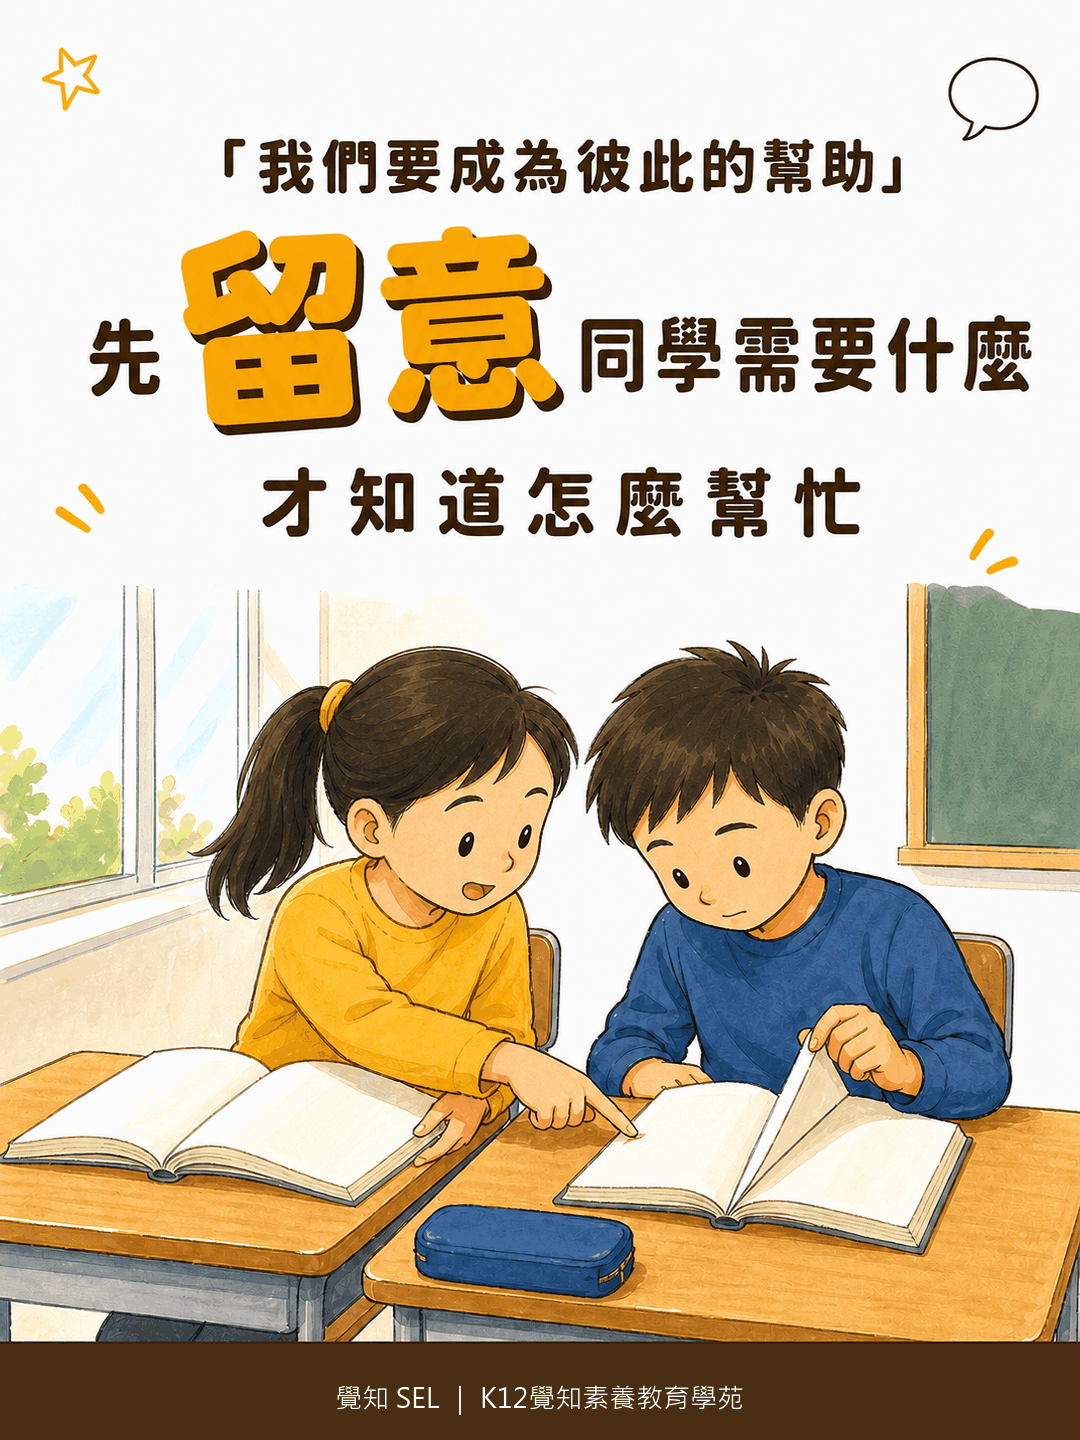
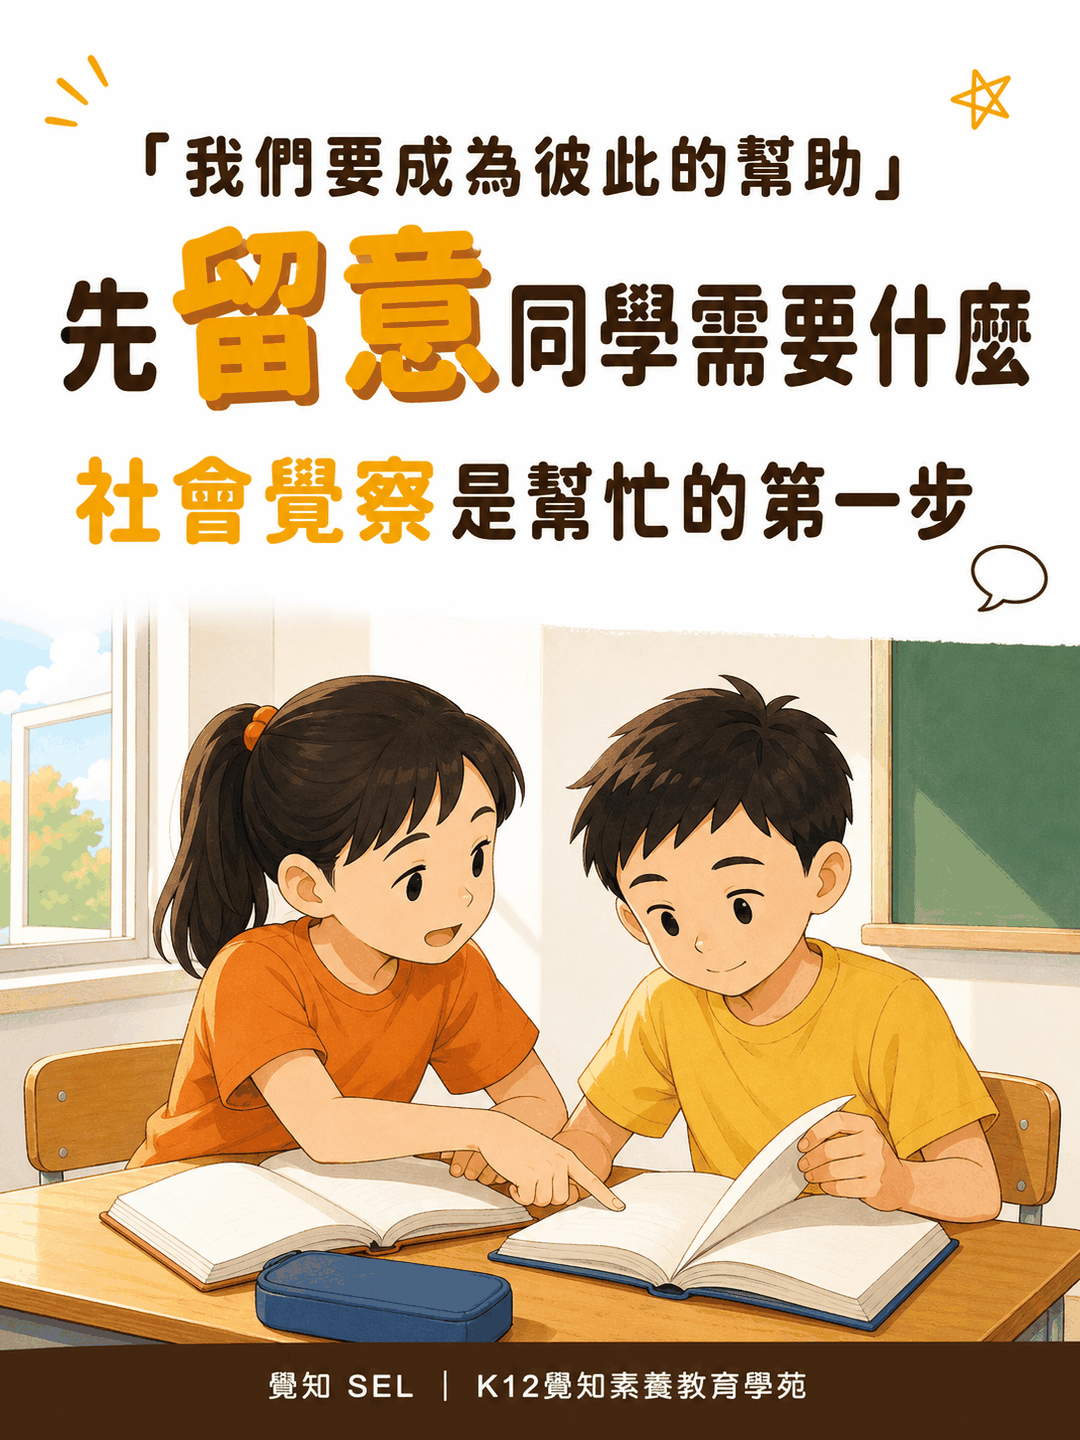
auto: dailynews update 2026-09-03 03:46 TW

diff --git a/2026-09/parenting_essence_2026-09-03.html b/2026-09/parenting_essence_2026-09-03.html
@@ -2814,7 +2814,9 @@ body .body section {
       <p>大人講到幫忙，想到的多半是伸手那一下：把東西遞過去、扶一把、借他<span style="white-space:nowrap">一支筆。</span></p>
       <p>教室裡的順序不太一樣。<strong>伸手之前還有一步：先留意同學需要什麼，才知道怎麼幫忙。</strong>小晴第一次答「沒有人需要幫忙」，不是不想幫，是她那時候眼睛還在自己的<span style="white-space:nowrap">課本上。</span></p>
       <p>這一步孩子不是不會，是平常很少有人請他做。上課看老師、下課顧自己的東西，坐在旁邊的同學在做什麼，很少真的<span style="white-space:nowrap">看進去。</span></p>
-      <p>調查裡近五成五的家長把同理心排在第一，很合理。同理心聽起來很大，在三年級的教室裡，它就是那一下轉頭：先看看同學在做什麼，才發現他找不到第幾頁。這一步在 SEL（社會情緒學習）裡叫社會覺察，家長會講的說法就是同理心，兩個名字講的是<span style="white-space:nowrap">同一件事。</span></p>
+      <p>調查裡近五成五的家長把同理心排在第一，很合理。同理心聽起來很大，在三年級的教室裡，它就是那一下轉頭：先看看同學在做什麼，才發現他找不到<span style="white-space:nowrap">第幾頁。</span></p>
+      <p>這一下轉頭，在 SEL（社會情緒學習）裡有正式的名字，叫<strong>社會覺察</strong>：讀得懂身邊的人現在的狀態與需要。<strong>社會覺察是幫忙的第一步。</strong>接在後面那一下——把課本推過去、指一下頁碼——叫<strong>人際關係技巧</strong>：把讀到的東西，變成對方接得住的<span style="white-space:nowrap">一個動作。</span></p>
+      <p>兩個詞聽起來很專業，做起來就是這麼小的兩下：轉頭看一眼，再把課本<span style="white-space:nowrap">推過去。</span></p>
     </section>
 
     <section>
@@ -2822,7 +2824,7 @@ body .body section {
       <p>那堂課以後，老師每週都問同一句：今天班上有誰需要幫忙？後面多了一句：你怎麼<span style="white-space:nowrap">知道的？</span></p>
       <p>第二週，小晴說：有人今天沒帶水壺，我看到他一直看別人喝水。第三週：有人被叫到名字沒聽到，我拍了<span style="white-space:nowrap">他一下。</span></p>
       <p>後面那一句比前面那一句重要。答得出「怎麼知道的」，代表孩子真的看了；答不上來的那一次，就是他還沒看，這時候不必急著要他<span style="white-space:nowrap">去幫誰。</span></p>
-      <p>我們在開智班看到的變化，不是小晴變得很會幫忙，是她開始在教室裡看別人。<strong>孩子先看看同學在做什麼，也比較容易發現哪裡需要幫忙。</strong>家長在調查裡最擔心的「被團體接納」，在教室裡常常就是從這裡<span style="white-space:nowrap">開始的。</span></p>
+      <p>我們在開智班看到的變化，不是小晴變得很會幫忙，是她開始在教室裡看別人。<strong>孩子先看看同學在做什麼，也比較容易發現哪裡需要幫忙。</strong>家長在調查裡最擔心的「被團體接納」，靠的正是<strong>社會覺察</strong>與<strong>人際關係技巧</strong>這兩樣，在教室裡一次一次<span style="white-space:nowrap">累積起來。</span></p>
     </section>
 
     <section>
@@ -2950,8 +2952,8 @@ body .body section {
 }
 </style>
 <nav class="zw-social" aria-label="覺知學苑連結">
-  <a class="zw-web" href="https://z-way-edu.com/" target="_blank" rel="noopener" data-label="覺知學苑官網">
-    <img src="../k12-logo.png" alt="K12覺知素養教育學苑官網" loading="lazy">
+  <a class="zw-web" href="https://z-way-edu.com/" target="_blank" rel="noopener" data-label="台灣展威官網">
+    <img src="../zw-logo.png" alt="台灣展威官網" loading="lazy">
   </a>
   <a class="zw-fb" href="https://www.facebook.com/K12KHART/" target="_blank" rel="noopener" data-label="Facebook 粉專">
     <svg viewBox="0 0 24 24" xmlns="http://www.w3.org/2000/svg"><path d="M22 12.06C22 6.5 17.52 2 12 2S2 6.5 2 12.06c0 5.02 3.66 9.18 8.44 9.94v-7.03H7.9v-2.9h2.54V9.85c0-2.52 1.5-3.91 3.78-3.91 1.1 0 2.24.2 2.24.2v2.46H15.2c-1.24 0-1.63.78-1.63 1.57v1.89h2.78l-.44 2.9h-2.34V22c4.78-.76 8.43-4.92 8.43-9.94z"/></svg>
@@ -3009,11 +3011,11 @@ body .body section {
 })();
 
 </script><style>
-/* === HERO_OVERRIDE_V3 2026-09-03 === (池選 photo-1653566031304-2bae3d104a11 | tint default | title left) */
+/* === HERO_OVERRIDE_V3 2026-09-03 === (AI hero（本地） | tint default | title left) */
 body header.head {
   background-image:
     linear-gradient(180deg, rgba(15,8,4,0.58) 0%, rgba(15,8,4,0.30) 38%, rgba(15,8,4,0.50) 100%),
-    url('https://images.unsplash.com/photo-1653566031304-2bae3d104a11?w=1920&auto=format&fit=crop&q=80') !important;
+    url('parenting_essence_2026-09-03_hero.jpg') !important;
   background-size: cover !important;
   background-position: center 38% !important;
   background-repeat: no-repeat !important;

diff --git a/index.html b/index.html
@@ -214,7 +214,7 @@ footer.v20 .fslogan{color:#b3a084}
   </div>
 
   <div class="grid">
-<a class="card is-latest theme-orange" href="2026-09/parenting_essence_2026-09-03.html" data-axis="thu" data-age="cross" data-hero="https://images.unsplash.com/photo-1653566031304-2bae3d104a11?w=1920&auto=format&fit=crop&q=80">
+<a class="card is-latest theme-orange" href="2026-09/parenting_essence_2026-09-03.html" data-axis="thu" data-age="cross" data-hero="2026-09/parenting_essence_2026-09-03_hero.jpg">
     <div class="card-tags"><span class="age">覺知．開智班（6-10）</span><span class="axis">週四 ｜ 3 秒鐘覺知對話</span></div>
     <h3 class="card-title">班語寫著「我們要成為彼此的幫助」，孩子要先留意同學現在需要什麼</h3>
     <p class="card-hook">開學第二週，覺知．開智班的老師把這學期的班語寫在黑板上：我們要成為彼此的幫助。同一週，國語日報報導了 DFC 臺灣（臺灣童心創意行動協會）發表的「AI 時代家長焦慮調查」：近七成三的家長擔心孩子「在人際互動中受傷，或難以在團體中被接納與包容」，僅五成家長擔心學習進度落後；近五成五家長認為，孩子在未來最該具備的能力是「同理心」。家長最擔心的是孩子在班上跟同學處得好不好，最想要的是同理心，這兩件事，班語那一句都寫到了。只是十個字念起來很順，孩子要真的做到，得從一件更小的事開始：先留意同學現在需要什麼。</p>
@@ -1365,15 +1365,20 @@ window.v20imgFb=function(img){
       clearTimeout(idleT);
       idleT=setTimeout(function(){bean.classList.remove('walk');bean.classList.add('hi');},1200);
     },{passive:true});
-    (function step(){
+    var lastT=performance.now(),wasMoving=false;
+    (function step(now){
+      // KWJ 2026-09-03「貼圖跟隨滑鼠的速度要快，現在很頓」：
+      // 追隨係數 .085 -> .30，並改成 frame-rate independent（120Hz 螢幕不會變兩倍快）
+      var dt=Math.min((now-lastT)/16.667,3);lastT=now;
+      var k=1-Math.pow(0.70,dt);
       var dx=tx-bx,dy=ty-by;
-      bx+=dx*.085;by+=dy*.085;
-      var moving=Math.abs(dx)+Math.abs(dy)>3;
-      if(moving){bean.classList.add('walk');bean.classList.remove('hi');if(Math.abs(dx)>1.5)face=dx<0?-1:1;}
-      else{bean.classList.remove('walk');}
-      bean.style.transform='translate('+bx+'px,'+by+'px) scaleX('+face+')';
+      bx+=dx*k;by+=dy*k;
+      var moving=Math.abs(dx)+Math.abs(dy)>2;
+      if(moving!==wasMoving){wasMoving=moving;bean.classList.toggle('walk',moving);if(moving)bean.classList.remove('hi');}
+      if(moving&&Math.abs(dx)>1.5)face=dx<0?-1:1;
+      bean.style.transform='translate3d('+bx.toFixed(1)+'px,'+by.toFixed(1)+'px,0) scaleX('+face+')';
       requestAnimationFrame(step);
-    })();
+    })(lastT);
   }
 })();
 </script>

diff --git a/2026-09/parenting_essence_2026-09-02.html b/2026-09/parenting_essence_2026-09-02.html
@@ -2957,8 +2957,8 @@ body .body section {
 }
 </style>
 <nav class="zw-social" aria-label="覺知學苑連結">
-  <a class="zw-web" href="https://z-way-edu.com/" target="_blank" rel="noopener" data-label="覺知學苑官網">
-    <img src="../k12-logo.png" alt="K12覺知素養教育學苑官網" loading="lazy">
+  <a class="zw-web" href="https://z-way-edu.com/" target="_blank" rel="noopener" data-label="台灣展威官網">
+    <img src="../zw-logo.png" alt="台灣展威官網" loading="lazy">
   </a>
   <a class="zw-fb" href="https://www.facebook.com/K12KHART/" target="_blank" rel="noopener" data-label="Facebook 粉專">
     <svg viewBox="0 0 24 24" xmlns="http://www.w3.org/2000/svg"><path d="M22 12.06C22 6.5 17.52 2 12 2S2 6.5 2 12.06c0 5.02 3.66 9.18 8.44 9.94v-7.03H7.9v-2.9h2.54V9.85c0-2.52 1.5-3.91 3.78-3.91 1.1 0 2.24.2 2.24.2v2.46H15.2c-1.24 0-1.63.78-1.63 1.57v1.89h2.78l-.44 2.9h-2.34V22c4.78-.76 8.43-4.92 8.43-9.94z"/></svg>
